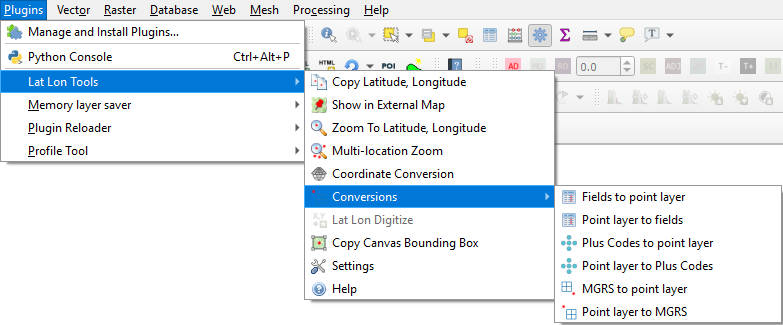
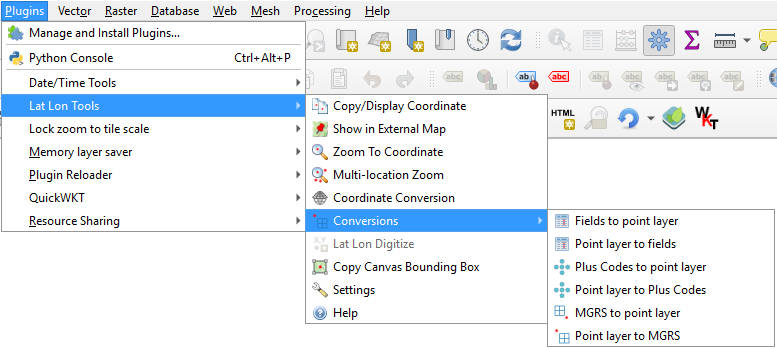
added settings menu to toolbar

Changed region(s): [[0.0, 0.0, 1.0, 1.0], [0.0309, 0.5538, 0.1236, 0.5846]]

diff --git a/index.html b/index.html
@@ -158,7 +158,7 @@ code {
 <p><img src="images/copycanvas.png" alt="Copy canvas bounding box"> <strong><em>Copy Canvas Bounding Box</em></strong> - Copy the canvas bounding box to the clipboard using one of the formats in settings.</p>
 </li>
 <li>
-<p><img src="images/settings.png" alt="Settings"> <strong><em>Settings</em></strong> - Displays the settings dialog box (see below).</p>
+<p><img src="doc/settings.png" alt="Settings"> <strong><em>Settings</em></strong> - Displays the settings dialog box (see below).</p>
 </li>
 <li><img src="images/help.png" alt="Help"> <strong><em>Help</em></strong> - Displays this help page.</li>
 </ul>

diff --git a/latLonTools.py b/latLonTools.py
@@ -125,10 +125,12 @@ class LatLonTools:
         self.iface.addPluginToMenu("Lat Lon Tools", self.copyCanvasAction)
 
         # Initialize the Settings Dialog Box
-        settingsicon = QIcon(os.path.dirname(__file__) + '/images/settings.png')
+        settingsicon = QIcon(':/images/themes/default/mActionOptions.svg')
         self.settingsAction = QAction(settingsicon, "Settings", self.iface.mainWindow())
         self.settingsAction.setObjectName('latLonToolsSettings')
+        self.settingsAction.setToolTip('Lat Lon Tools Settings')
         self.settingsAction.triggered.connect(self.settings)
+        self.toolbar.addAction(self.settingsAction)
         self.iface.addPluginToMenu('Lat Lon Tools', self.settingsAction)
 
         # Help

diff --git a/readme.md b/readme.md
@@ -117,7 +117,7 @@ Some of the functions can be accessed from the ***Lat Lon Tools*** toolbar. If f
 
 * <img src="images/copycanvas.png" alt="Copy canvas bounding box"> ***Copy Canvas Bounding Box*** - Copy the canvas bounding box to the clipboard using one of the formats in settings.
 
-* <img src="images/settings.png" alt="Settings"> ***Settings*** - Displays the settings dialog box (see below).
+* <img src="doc/settings.png" alt="Settings"> ***Settings*** - Displays the settings dialog box (see below).
 * <img src="images/help.png" alt="Help"> ***Help*** - Displays this help page.
 
 ## Settings
